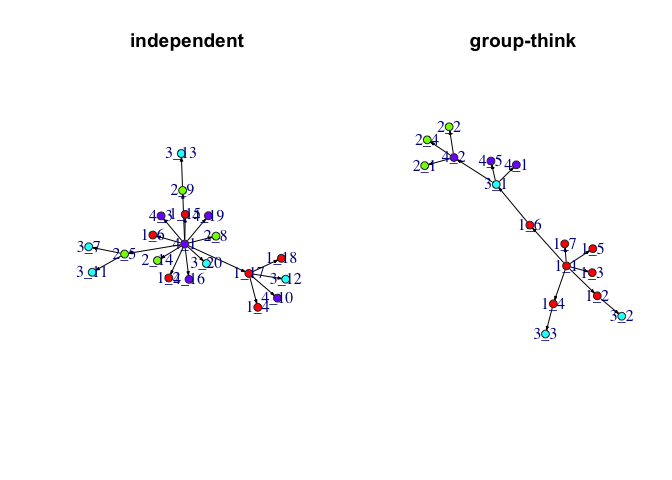
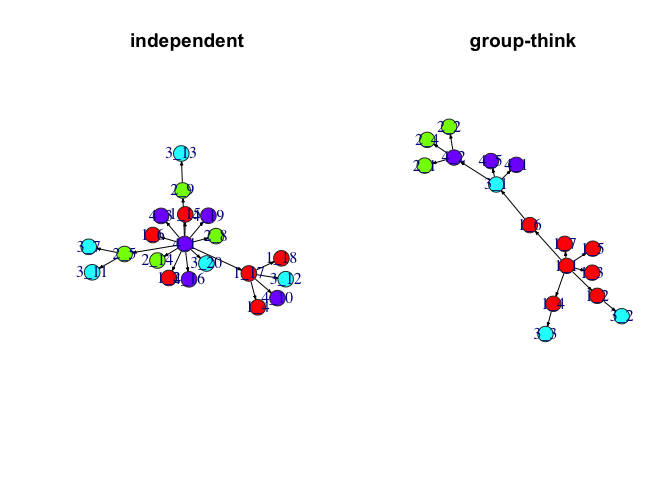
minor modifications to read me, minor fixes to plot_transmission

diff --git a/README.md b/README.md
@@ -5,17 +5,26 @@
 
 # modulr
 
+**NOTE:** This package is under active development. A stable version
+will be available soon.
+
 `modulr` is an R package for stochastic simulation of fission-fusion
 dynamics and sampling processes. It provides a suite of tools for
 creating and working with modular `igraph` networks and investigating
 network statistic estimation.
 
-If using the ‘netcarto’ simulated-annealing community detection
-algorithm implemented via `rnetcarto`, additional setup is required that
-can be laborious, especially for Windows OS. In our experience, this
-community detection algorithm has the greatest performance advantages
-for small networks, which may make the additional setup effort
-worthwhile.
+The heart of this package is in its simulators so here we’ll outline how
+they operate and look at how they’re different using some additional
+tools we’ve incorporated in the package. There’s more to `modulr`
+though, so be sure to check out the other vignettes.
+
+Some of the functions in this package can use the ‘netcarto’
+simulated-annealing community detection algorithm implemented via
+`rnetcarto`, although this is a suggested package, not a dependency.
+`rnetcarto` setup can be laborious depending on your machine. In our
+experience, this community detection algorithm has the greatest
+performance advantages for small networks, which may make the additional
+setup effort worthwhile.
 
 ## How to cite this package
 
@@ -34,11 +43,6 @@ devtools::install_github("gavincotterill/modulr")
 ```
 
 ## Simulators
-
-The heart of this package is in its graph simulators so here we’ll
-outline how they operate and look at how they’re different using some
-additional tools we’ve incorporated in the package. There’s more to the
-package though, so be sure to check out the other vignettes.
 
 There are currently two simulators in the package called “independent”
 and “group-think”. In the independent simulator, changes in group
@@ -74,46 +78,46 @@ that are short relative to *λ* and *ξ*, otherwise individuals
 potentially spend more time in limbo than with groups. The simulation
 procedure is repeated independently for all individuals in the simulated
 population. The independent simulator is also spatially-explicit in the
-sense that group identity is indistinguishable from a fixed location in
+sense that group identity is indistinguishable from a patch location in
 its interpretation.
 
 The ‘group-think’ simulator seeks to relax the assumption of independent
 switching. It is hierarchical and works in two stages. First, entire
-groups switch between the same number of locations using the independent
+groups switch between the same number of patches using the independent
 simulation procedure. Next, groups are populated with resident
 individuals that make decisions based on what is happening around them
 in terms of group movements and in conjunction with the rates 1/*λ* and
 1/*ξ*. It may be helpful to think of this in terms of groups switching
-between locations, and individuals switching between groups. At any time
+between patches, and individuals switching between groups. At any time
 in the simulation there are four possible event types: fission, fusion,
-simultaneous fission and fusion or no change in which groups are
-co-located. In a fission event, at least one group departs from a
-location containing at least one other group; fusion is when groups join
-each other at a location; fission-fusion is when groups are both
-arriving and departing a shared location at the exact same time.
-Currently the trigger for individual decision-making is ‘fission’ of
-either variety: the departure of any group from multiple co-located
-groups (i.e., event types fission or fission-fusion). It is important to
-note that individuals can be ‘attached’ to a non-resident group while
-co-located with their resident group and vice-versa. Individual choice
-is structured such that, when *any fission* happens, individuals decide
-whether to trail off with those that are departing or stay put. In
-practice it’s a little more complicated: individuals that are attached
-to their resident/home group have a probability of switching to any of
-the other previously co-located groups equal to
-(1/*λ*)/((1/*λ*)+(1/*ξ*)) and individuals that are not attached to their
-resident/home group have a probability of returning to their respective
-home groups equal to (1/*ξ*)/((1/*λ*)+(1/*ξ*)). Individuals returning
-home ‘magically’ find their resident group regardless of where they are
-located and are subject to the same uniform draw for travelling time.
-These individual movements have no bearing on the event types
-categorizing group movements (eg., fission, fusion, etc.)
+simultaneous fission and fusion or no change among the groups at a given
+patch. In a fission event, at least one group departs from a patch
+containing at least one other group; fusion is when groups join each
+other at a patch; fission-fusion is when groups are both arriving and
+departing a patch at the exact same time. Currently the trigger for
+individual decision-making is ‘fission’ of either variety: the departure
+of any group from multiple co-located groups (i.e., event types fission
+or fission-fusion). It is important to note that individuals can be
+‘attached’ to a non-resident group while co-located with their resident
+group and vice-versa. Individual choice is structured such that, when
+*any fission* happens, individuals decide whether to trail off with
+those that are departing or stay put. In practice it’s a little more
+complicated: individuals that are attached to their resident/home group
+have a probability of switching to any of the other previously
+co-located groups equal to (1/*λ*)/((1/*λ*)+(1/*ξ*)) and individuals
+that are not attached to their resident/home group have a probability of
+returning to their respective home groups equal to
+(1/*ξ*)/((1/*λ*)+(1/*ξ*)). Individuals returning home ‘magically’ find
+their resident group regardless of where they are located and are
+subject to the same uniform draw for travelling time. These individual
+movements have no bearing on the event types categorizing group
+movements (eg., fission, fusion, etc.)
 
 The independent sampler sacrifices some realism for the sake of
 tractability, whereas the group-think simulator seeks to add realism but
 may need additional refinements.
 
-Let’s compare the simulators.
+Let’s compare the simulators. We need to load some additional packages.
 
 ``` r
 #------ load packages -----
@@ -122,7 +126,7 @@ sapply(c("tidyverse", "ggthemes", "igraph", "assortnet", "modulr"), require, cha
 #>      TRUE      TRUE      TRUE      TRUE      TRUE
 ```
 
-We start by specifying a bunch of values. For reproducibility we’ll use
+We start by specifying values. For reproducibility we’ll use
 `set.seed()`. Currently all of the ‘time’ components are specified in
 days. In the future this could be improved by converting units behind
 the scenes.
@@ -137,21 +141,22 @@ tt = c(0.001, 0.002) # nearly instantaneous travel times, these are in days
 # 86400 * 0.001 is about 1.5 minutes, so the range here is one and a half to three minutes 
 sd = 100 # sampling duration in days
 
-
 set.seed(1234)
 ```
 
 The object names here could also be made a little more intuitive. Like
-‘at’… came from ‘animals_transformed’ which is an internal function.
-These could be ind_sched and gt_sched or something like that.
+‘at’… came from ‘animals_transformed’ which will be deprecated. These
+could be ind_sched and gt_sched or something like that.
 
 ``` r
-at_ind <- simulate_schedule(n_animals = na, n_groups = ng, time_to_leave = tl, time_to_return = tr, 
-                            travel_time = tt, sampling_duration = sd,
+at_ind <- simulate_schedule(n_animals = na, n_groups = ng, time_to_leave = tl, 
+                            time_to_return = tr, travel_time = tt, 
+                            sampling_duration = sd,
                             simulator = "independent")
 
-at_non_ind <- simulate_schedule(n_animals = na, n_groups = ng, time_to_leave = tl, time_to_return = tr, 
-                                travel_time = tt, sampling_duration = sd,
+at_non_ind <- simulate_schedule(n_animals = na, n_groups = ng, time_to_leave = tl, 
+                                time_to_return = tr, travel_time = tt, 
+                                sampling_duration = sd,
                                 simulator = "group-think")
 
 head(at_ind[[1]], 6)
@@ -199,10 +204,11 @@ for(i in 2:length(ids2)){
                         simulator = "independent")
 }
 
-paste("For the \'independent\' simulator, the average proportion of time that individuals spent at their home 
-      location was ", mean(out2$time_at_home) %>% round(., 2), ", versus the desired value of ", 
+paste("For the \'independent\' simulator, the average proportion of time that individuals spent at their home location was ", 
+      mean(out2$time_at_home) %>% round(., 2), 
+      ", versus the desired value of ", 
       round(tl / (tl+tr), 2))
-#> [1] "For the 'independent' simulator, the average proportion of time that individuals spent at their home \n      location was  0.66 , versus the desired value of  0.64"
+#> [1] "For the 'independent' simulator, the average proportion of time that individuals spent at their home location was  0.66 , versus the desired value of  0.64"
 ```
 
 In this ‘independent’ simulation, on average, individuals spent 66% of
@@ -222,10 +228,11 @@ for(i in 2:length(ids)){
                         ids[[i]],
                         simulator = "group-think")
 }
-paste("For the \'group-think\' simulator, the average proportion of time that individuals spent with their 
-      preferred group was ", mean(out$time_at_home) %>% round(., 2), ", versus the desired value of ", 
+paste("For the \'group-think\' simulator, the average proportion of time that individuals spent with their preferred group was ", 
+      mean(out$time_at_home) %>% round(., 2), 
+      ", versus the desired value of ", 
       round(tl / (tl+tr), 2))
-#> [1] "For the 'group-think' simulator, the average proportion of time that individuals spent with their \n      preferred group was  0.7 , versus the desired value of  0.64"
+#> [1] "For the 'group-think' simulator, the average proportion of time that individuals spent with their preferred group was  0.7 , versus the desired value of  0.64"
 ```
 
 In this group think simulation, on average, individuals spent 70% of
@@ -306,8 +313,10 @@ Let’s look at the distribution of edge weights from these two graphs:
 ew_ind <- igraph::E(gc_at)$weight
 ew_non_ind <- igraph::E(gc_at2)$weight
 
-df2 <- data.frame(weight = c(ew_ind, ew_non_ind), sim = c(rep("independent", length(ew_ind)), rep("group-think", length(ew_non_ind))))
-df2$sim = factor(df2$sim, levels = c("independent", "group-think")) # reorder for consistency across figures
+df2 <- data.frame(weight = c(ew_ind, ew_non_ind), 
+                  sim = c(rep("independent", length(ew_ind)), 
+                          rep("group-think", length(ew_non_ind))))
+df2$sim = factor(df2$sim, levels = c("independent", "group-think")) 
 
 ggplot(df2)+
   geom_histogram(mapping = aes(x = weight, fill = sim), show.legend = FALSE)+
@@ -357,32 +366,45 @@ least within group). The results from the split violin plot are
 concerning. The close similarity in modularity values is reassuring. It
 would certainly be worth repeating this many times to see if any of
 these results are anomolous, or whether they represent a consistent
-pattern. An additional comparison to make would be in graph-crossing
-time and/or in simulating disease across these networks. To these, we
-need to specify some additional terms. We’ll calculate the graph
-crossing times first. What do you expect to happen? I would guess that
-the independent sampler produces more even mixing than group-think. That
-fits with the idea that individuals in group-think are ‘stickier’ or
-don’t make as many meaningful moves between groups. On the other hand,
-group-think had no zero edge weights. Modularity was similar, although
-slightly higher with the independent simulator, which might suggest
-slower transmission across the graph.
+pattern.
+
+An additional comparison to make would be in graph-crossing time and/or
+in simulating disease across these networks. To these, we need to
+specify some additional terms. We’ll calculate the graph crossing times
+first. What do you expect to happen?
+
+I would guess that the independent sampler produces more even mixing
+than group-think. That fits with the idea that individuals in
+group-think are ‘stickier’ or don’t make as many meaningful moves
+between groups. On the other hand, group-think had no zero edge weights.
+Modularity was similar, although slightly higher with the independent
+simulator, which might suggest slower transmission across the graph.
 
 This part will be slow. Also, I’m suppressing warnings from
 graph_crossing on at_non_ind… so I need to chase down what’s happening
 there.
 
 ``` r
-et = 0 # exposure time, here it's zero because I want instantaneous 'transmission' 
-it = sd # infectious time, here it's 100 which is probably overkill, but to be safe it's the same as the sampling duration
+# exposure time, here it's zero because I want instantaneous 'transmission' 
+et = 0 
+# infectious time, here it's 100 which is probably overkill, 
+# but to be safe it's the same as the sampling duration
+it = sd 
 
 # I randomly allocate the first individual in the list to be the index case
 index_ind <- names(at_ind)[[1]]
-gc_ind <- graph_crossing(schedule = at_ind, exposure_time = et, infectious_time = it, index_case = index_ind)
+gc_ind <- graph_crossing(schedule = at_ind, 
+                         exposure_time = et, 
+                         infectious_time = it, 
+                         index_case = index_ind)
 #> [1] "There are 20 animals in memo at the beginning of time_step 1"
 #> [1] "There are 19 animals in memo the beginning of time_step 2"
+
 index_non_ind <- names(at_non_ind)[[1]]
-gc_non_ind <- graph_crossing(schedule = at_non_ind, exposure_time = et, infectious_time = it, index_case = index_non_ind)
+gc_non_ind <- graph_crossing(schedule = at_non_ind, 
+                             exposure_time = et, 
+                             infectious_time = it, 
+                             index_case = index_non_ind)
 #> [1] "There are 20 animals in memo at the beginning of time_step 1"
 #> [1] "There are 19 animals in memo the beginning of time_step 2"
 
@@ -396,32 +418,36 @@ max(gc_non_ind$time_infected)
 Huge difference. 16 days with the independent simulator vs 64 days with
 group-think. Clearly pathogens requiring close contact would rip through
 the former much faster than the latter. This is despite nearly identical
-modularity values. We at least intend to have the same group-switching
-rates between the two simulators, although whether we adequately do that
-is in doubt. At a minimum we can say group-think is much noisier in this
-respect. Perhaps we can calculate the average rate of novel contacts
-over time. That might be a bear to code. Put a pin in that. For now,
-let’s do a quicker version of what we just did with different SEIR
-dynamics and then plot the transmission chains.
+modularity values. There’s also an element of chance, as we have to
+specify an index case which will stochastically shape the outcome. We at
+least intended to have the same group-switching rates between the two
+simulators, although whether we adequately do that may be in doubt. We
+can say for sure that group-think is much noisier in this respect. Let’s
+plug in exposure and infectious times that might mimic a common cold and
+then plot the transmission chains.
 
 ``` r
-# something like a common cold
 et = 2 # exposure time
 it = 5 # infectious time
 
-# I randomly allocate the first individual in the list to be the index case
-seir_ind <- graph_crossing(schedule = at_ind, exposure_time = et, infectious_time = it, index_case = index_ind)
+seir_ind <- graph_crossing(schedule = at_ind, 
+                           exposure_time = et, 
+                           infectious_time = it, 
+                           index_case = index_ind)
 #> [1] "There are 20 animals in memo at the beginning of time_step 1"
 #> [1] "There are 19 animals in memo the beginning of time_step 2"
-seir_non_ind <- graph_crossing(schedule = at_non_ind, exposure_time = et, infectious_time = it, index_case = index_non_ind)
+seir_non_ind <- graph_crossing(schedule = at_non_ind, 
+                               exposure_time = et, 
+                               infectious_time = it, 
+                               index_case = index_non_ind)
 #> [1] "There are 20 animals in memo at the beginning of time_step 1"
 #> [1] "There are 19 animals in memo the beginning of time_step 2"
 #> [1] "ran out of new exposures at timestep 2"
 
 # independent sampler
-nrow(seir_ind) # all individuals infected in
+nrow(seir_ind) # all individuals infected 
 #> [1] 20
-max(seir_ind$time_infected) # 11 days
+max(seir_ind$time_infected) # in 11 days
 #> [1] 10.8744
 
 # group-think
@@ -441,17 +467,53 @@ g4 <- igraph::graph_from_edgelist(seir_non_ind[-1,1:2] %>% as.matrix())
 V(g4)$membership <- stringr::str_extract(V(g4)$name, "\\d{1,}(?=_)") %>% as.numeric()
 
 par(mfrow = c(1,2))
-plot_transmissions(g3, title = "independent")
-plot_transmissions(g4, title = "group-think")
+plot_transmissions(g3, title = "independent", 
+                   vertex.size = 80,
+                   vertex.label = V(g3)$name,
+                   vertex.label.cex = .5)
+plot_transmissions(g4, title = "group-think",
+                   vertex.size = 80,
+                   vertex.label = V(g4)$name,
+                   vertex.label.cex = .5)
 ```
 
 ![](man/figures/README-unnamed-chunk-12-1.png)
 
 Based on the graph-crossing time I would have thought there’d be an even
-bigger difference, but nevertheless it’s what we should have expected.
-In the independent sampler, due to its more even mixing, we have every
+bigger difference, but in general it’s what we should have expected. In
+the independent sampler, due to its more even mixing, we have every
 individual contracting the disease in less time. By contrast, not all
 individuals became infected in the group-think simulator and the
 pathogen tended to knock out groups in series. Group 1 (red) were all
 infected, then group 3 (blue), then group 4 (purple), then last group 2
 (green).
+
+In summary, the independent simulator looks pretty robust. Right now the
+jury may still be out on group-think. Are the differences just the
+result of unreliable handling of group switching rates and/or too much
+random noise? Or is there value in a simulator that produces networks
+with the similar modularity yet totally different individual behavior?
+
+I wonder if some of this noise could be reduced by more explicitly
+double-dipping on the switching rates. In that case, rather than having
+fission trigger individual choice, keep a record of the exponential
+draws of groups among patches, and use those again on the individual
+level. That would overwrite the element of animal cognition that I was
+originally striving for and might just induce other issues I’m not
+seeing. I’ve also wondered if the only missing piece is that individuals
+that are not at home and not at the same patch as their resident group
+need the opportunity to be ‘called home’ when their group undergoes
+fission.
+
+One thing I haven’t done is to look at group-think in terms of patch
+fidelity. A clear alternative, and probably more realistic, is that
+animals returning home would go to the preferred patch, rather than
+‘magically’ find their group. That raises some additional questions, but
+I think the way to do it would be to have them automatically lock on to
+their group if the group is at the patch or arrives at the patch and
+otherwise randomly assign them to any group that might appear. Another
+consideration is that the patch could remain unoccupied by ‘groups’
+while an individual (or multiple individuals) are there. It would be
+easy to force them to sit and wait until their friends show up, but I
+wonder how if it changes much that they’re potentially stuck there a
+while.
